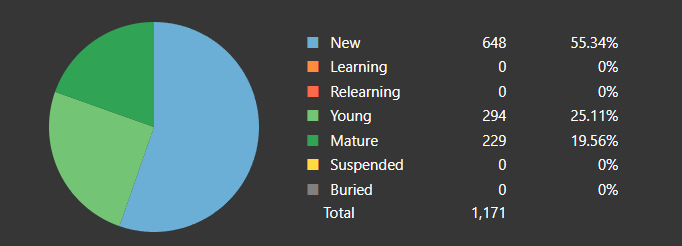
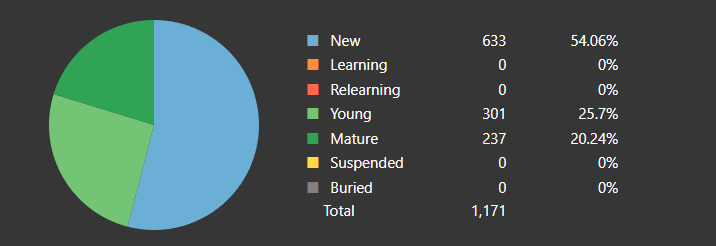
Updating card counts
Mostly grammar reviews

diff --git a/docs/index.md b/docs/index.md
@@ -9,20 +9,11 @@ At some point, I do plan on scripting this out. But for now, I'll just update it
 !!! info "Current Daily New Card Count"
     Will do **15 cards** a day for now. Might do 20 in the future, but 15 seems like a sweet spot for me.
 
-#### Tango N5 as of _10/16/2023_ 
+#### Tango N5 as of _10/17/2023_ 
 
-**523** Vocabulary words known with 648 new cards remaining: On track to finish all new cards on **_November 29th_** with my current daily card amount.
+**538** Vocabulary words known with 633 new cards remaining: On track to finish all new cards on **_November 29th_** with my current daily card amount. Then I'll start Tango N4.
 
 ![Card Counts](./assets/anki-stats/card-counts.png){ align=center }
-
-!!! info "End dates with various daily card amounts"
-    > "End date" refers to the day where I have no **new** cards. I will still review after this period.
-
-    As I was curious, here are the end dates with different daily new card amounts:
-    
-    - **10 New Cards Daily**: _December 23rd_
-    - **15 New Cards Daily**: _November 29th_ → _My current planned end date_
-    - **20 New Cards Daily**: _November 18th_
 
 ## Things I need to work on currently
 
